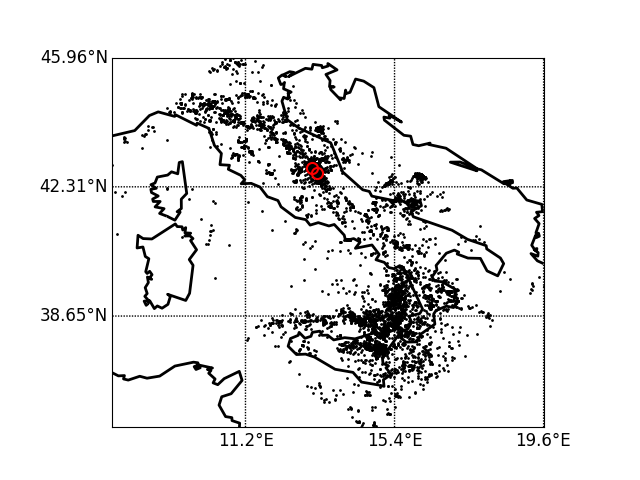
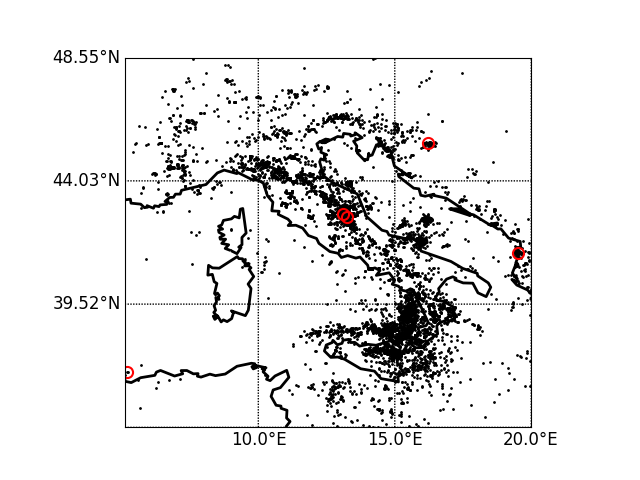
progressing

diff --git a/data/binning_catalog.py b/data/binning_catalog.py
@@ -1,0 +1,43 @@
+import numpy as np
+import pandas as pd
+import matplotlib.pyplot as plt
+
+
+datafile = "italy_ingv_rotated_rect_events_declustered_Mc_2.5_eta_-4.60.csv"
+outfile = "italy_ingv_rotated_rect_events_declustered_Mc_2.5_eta_-4.60_binned.csv"
+
+dkm = 20
+d = pd.read_csv(datafile, sep="|")
+I = d["kept"]
+dd = d[I].copy()
+
+nbinx = int(np.ceil((dd["x_proj_km"].max() - dd["x_proj_km"].min()) / dkm))
+nbiny = int(np.ceil((dd["y_proj_km"].max() - dd["y_proj_km"].min()) / dkm))
+
+i = np.digitize(dd["x_proj_km"], dd["x_proj_km"].min() + np.arange(nbinx + 1) * dkm) - 1
+j = np.digitize(dd["y_proj_km"], dd["y_proj_km"].min() + np.arange(nbiny + 1) * dkm) - 1
+
+res = []
+
+for ii in range(nbinx):
+    for jj in range(nbiny):
+        I = (i == ii) & (j == jj)
+        res.append(
+                {
+                    "bin_ix": ii,
+                    "bin_iy": jj,
+                    "n_events": np.sum(I),
+                    "x_center_km": dd["x_proj_km"].min() + (ii + 0.5) * dkm,
+                    "y_center_km": dd["y_proj_km"].min() + (jj + 0.5) * dkm,
+                }
+        )
+
+pd.DataFrame(res).to_csv(outfile, index=False, sep="|")
+
+
+resd = np.array([r["n_events"] for r in res]).reshape((nbinx, nbiny)).T
+
+
+plt.imshow(resd, origin="lower", cmap="viridis", extent=[0, nbinx * dkm, 0, nbiny * dkm])
+
+plt.show()

diff --git a/data/nnd_declustering.py b/data/nnd_declustering.py
@@ -33,13 +33,13 @@ def load_original_ingv_with_matching_fields(path):
     Load the original INGV CSV catalogue, keep the original columns,
     and add helper columns for filtering/matching.
     """
-    df = pd.read_csv(path, low_memory=False)
+    df = pd.read_csv(path, low_memory=False, sep='|', skiprows=0)
     df.columns = [str(c).strip() for c in df.columns]
 
     original_columns = list(df.columns)
 
     # Required columns in italy_ingv_rotated_rect_events.csv
-    required = ["event_id", "time", "latitude", "longitude", "depth", "mag"]
+    required = ["#EventID", "Time", "Latitude", "Longitude", "Depth/Km", "Magnitude"]
     missing = [c for c in required if c not in df.columns]
     if missing:
         raise ValueError(
@@ -47,12 +47,12 @@ def load_original_ingv_with_matching_fields(path):
             f"Available columns: {df.columns.tolist()}"
         )
 
-    df["datetime"] = pd.to_datetime(df["time"], errors="coerce")
-    df["lat"] = pd.to_numeric(df["latitude"], errors="coerce")
-    df["lon"] = pd.to_numeric(df["longitude"], errors="coerce")
-    df["depth"] = pd.to_numeric(df["depth"], errors="coerce").fillna(0.0)
-    df["mag"] = pd.to_numeric(df["mag"], errors="coerce")
-    df["event_id_num"] = pd.to_numeric(df["event_id"], errors="coerce")
+    df["datetime"] = pd.to_datetime(df["Time"], errors="coerce")
+    df["lat"] = pd.to_numeric(df["Latitude"], errors="coerce")
+    df["lon"] = pd.to_numeric(df["Longitude"], errors="coerce")
+    df["depth"] = pd.to_numeric(df["Depth/Km"], errors="coerce").fillna(0.0)
+    df["mag"] = pd.to_numeric(df["Magnitude"], errors="coerce")
+    df["event_id_num"] = pd.to_numeric(df["#EventID"], errors="coerce")
 
     df = df.dropna(subset=["datetime", "lat", "lon", "mag"]).copy()
     df = df.sort_values("datetime").reset_index(drop=True)
@@ -117,7 +117,14 @@ def save_original_structure_csv(original_catalog_file, eqCat, is_keep, Mmin, Mma
     df["kept"] = df["kept"].astype(bool)
 
     # Preserve original CSV structure, with one new column at the end.
-    df[original_columns + ["kept"]].to_csv(out_csv, index=False)
+    I = df["kept"]
+    gamma = np.mean(df[I].Latitude)  # mean latitude of kept events
+    EarthRadius = 6371.0  # km
+    df["x_proj_km"] = EarthRadius * np.radians(df["Longitude"]) * np.cos(np.radians(gamma))
+    df["y_proj_km"] = EarthRadius * np.radians(df["Latitude"] - gamma)
+
+    df[original_columns + ["x_proj_km", "y_proj_km", "kept"]].to_csv(out_csv, index=False, sep="|")
+
 
     print("save original-structure CSV:", out_csv)
     print("CSV rows:", len(df))
@@ -134,7 +141,7 @@ file_in = "italy_ingv_rotated_rect_events.mat"
 Mmin, Mmax = 2.5, None
 tmin, tmax = 2015, 2026.5
 
-ORIGINAL_CATALOG_FILE = 'italy_ingv_rotated_rect_events.csv'
+ORIGINAL_CATALOG_FILE = "italy_ingv_m2point5_2015-2026.txt" # 'italy_ingv_rotated_rect_events.csv'
 
 
 

diff --git a/data/create_horus_mat_for_clust.py b/data/create_horus_mat_for_clust.py
@@ -17,8 +17,8 @@ from scipy.io import savemat
 # PARAMETERS TO CHANGE
 # ============================================================
 
-INPUT_FILE = "italy_ingv_rotated_rect_events.csv"
-OUTPUT_FILE = "italy_ingv_rotated_rect_events.mat"
+INPUT_FILE = "italy_ingv_m2point5_2015-2026.txt" # "italy_ingv_rotated_rect_events.csv"
+OUTPUT_FILE = "italy_ingv_m2point5_2015-2026.mat"
 
 # Optional filter before saving.
 MIN_MAGNITUDE = None     # e.g. 3.0, or None
@@ -31,18 +31,18 @@ YEAR_MAX = None          # e.g. 2020, or None
 # ============================================================
 
 def load_horus(path):
-    df = pd.read_csv(path, low_memory=False)
+    df = pd.read_csv(path, low_memory=False, sep='|', skiprows=0)
     df.columns = [str(c).strip() for c in df.columns]
 
     # Rename INGV CSV columns to the names expected by the rest of the script.
     df = df.rename(
         columns={
-            "event_id": "event_id",
-            "time": "datetime",
-            "latitude": "lat",
-            "longitude": "lon",
-            "depth": "depth",
-            "mag": "mag",
+            "#EventID": "event_id",
+            "Time": "datetime",
+            "Latitude": "lat",
+            "Longitude": "lon",
+            "Depth/Km": "depth",
+            "Magnitude": "mag",
         }
     )
 